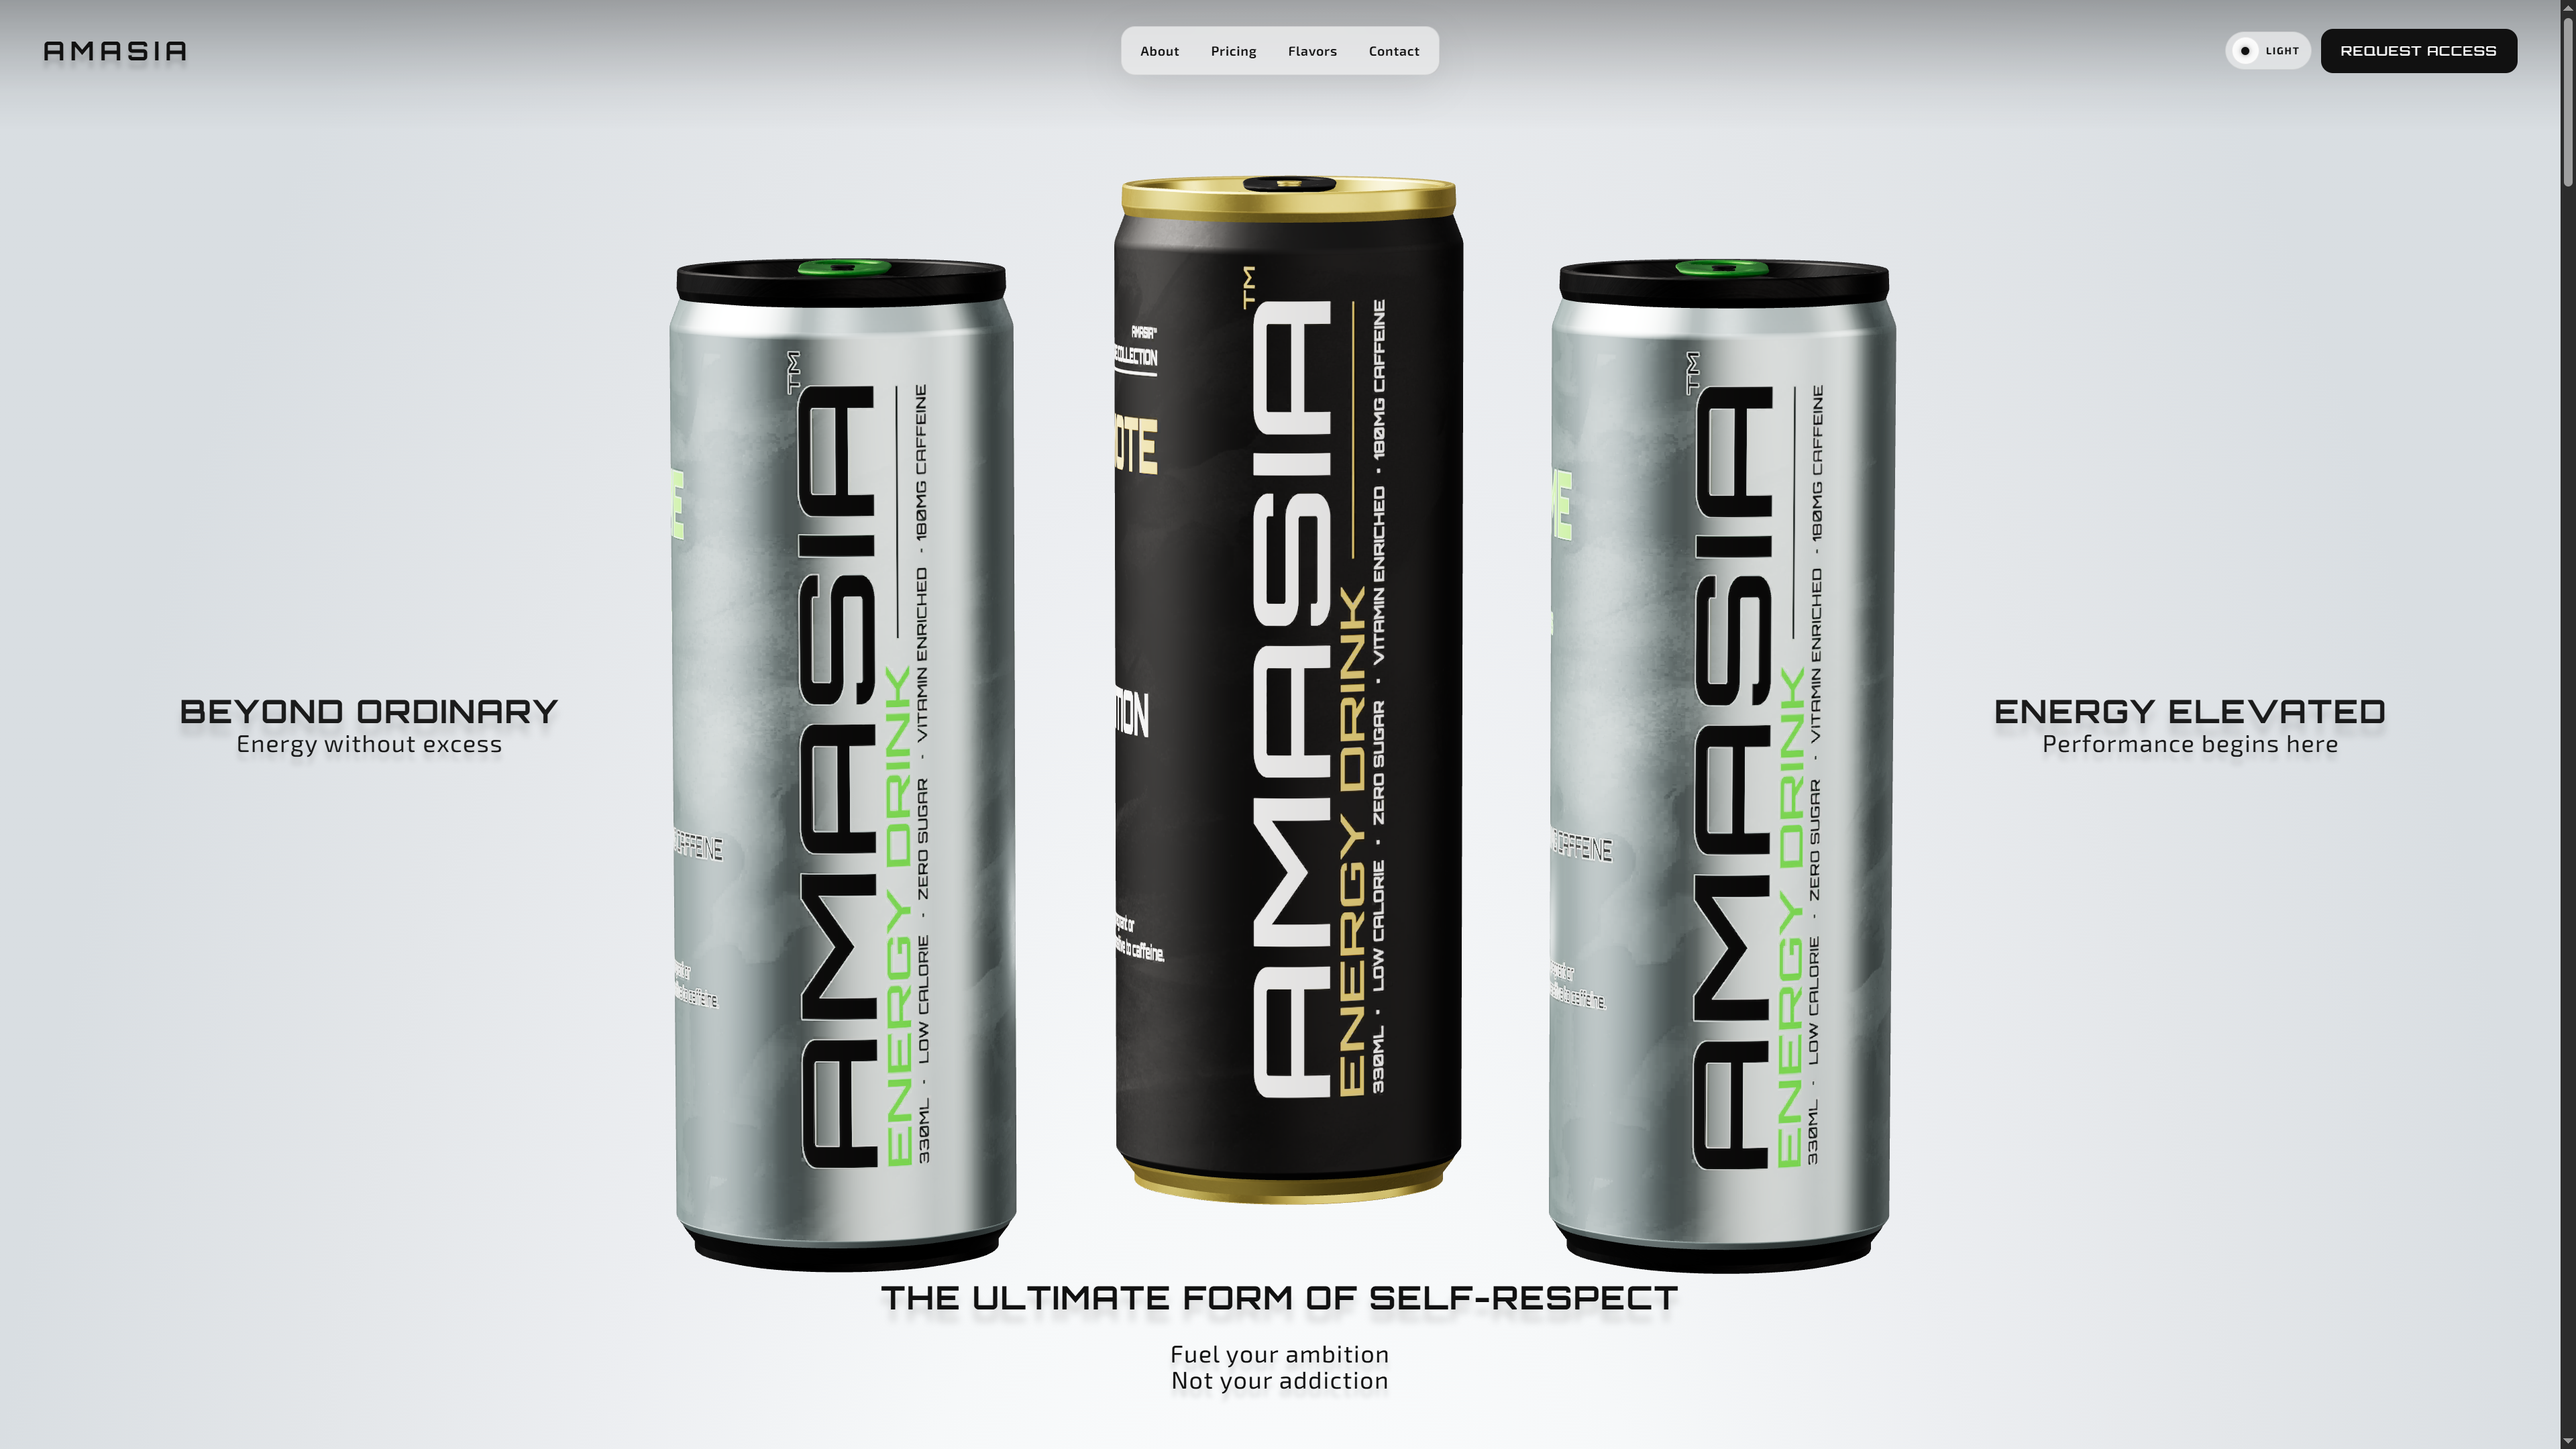
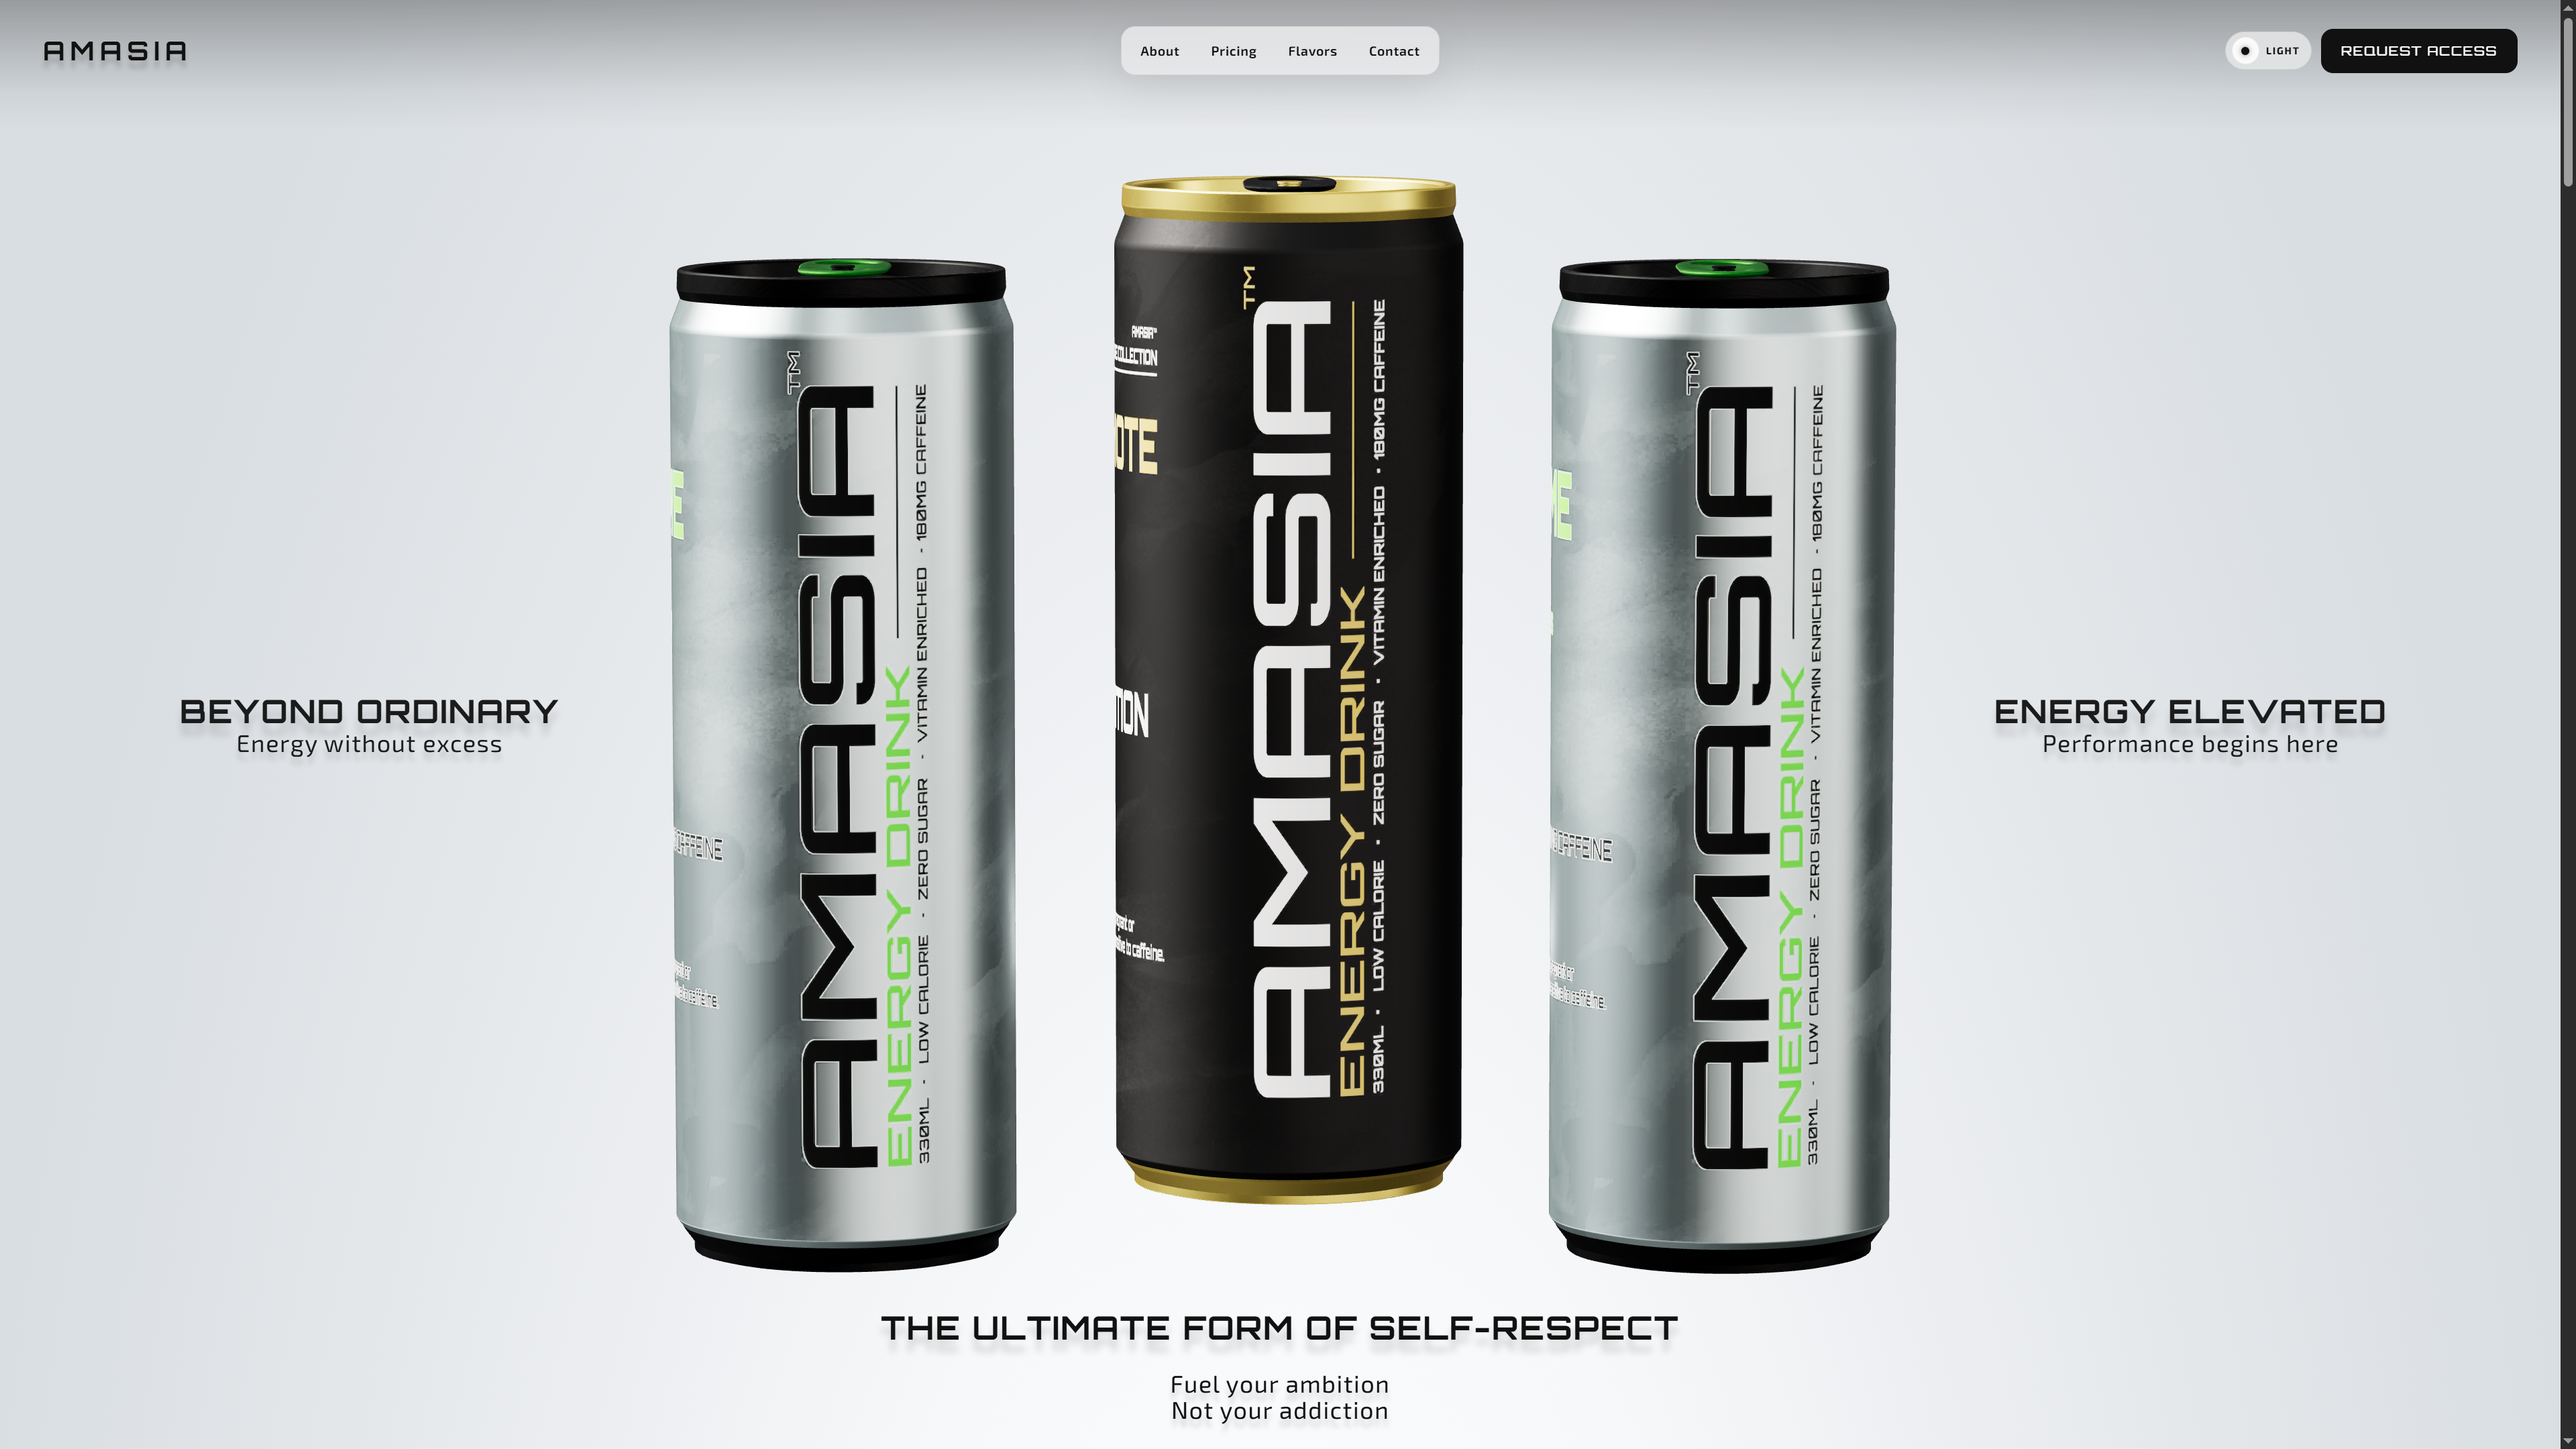
docs: update hero img

Changed region(s): [[0.3438, 0.8685, 0.6562, 0.9926]]

diff --git a/frontend/src/app/sections/scroll-story/scroll-story.html b/frontend/src/app/sections/scroll-story/scroll-story.html
@@ -113,7 +113,7 @@
   desktopEnter="bottom"
   desktopLeave="bottom"
   [desktopOffsetX]="0"
-  [desktopOffsetY]="176"
+  [desktopOffsetY]="206"
   [desktopWidth]="800"
   [desktopScale]="1"
 
